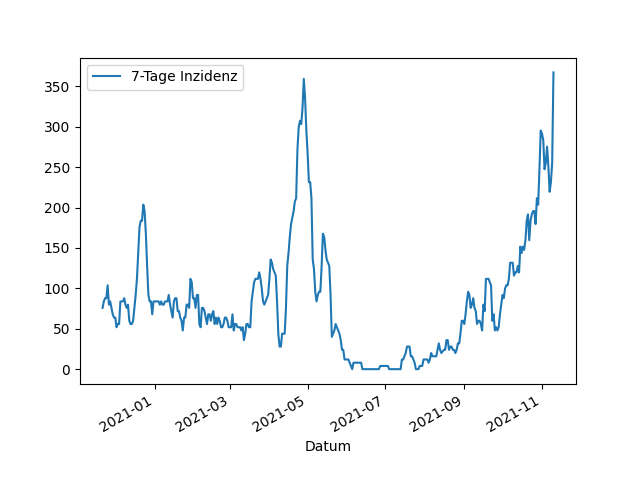
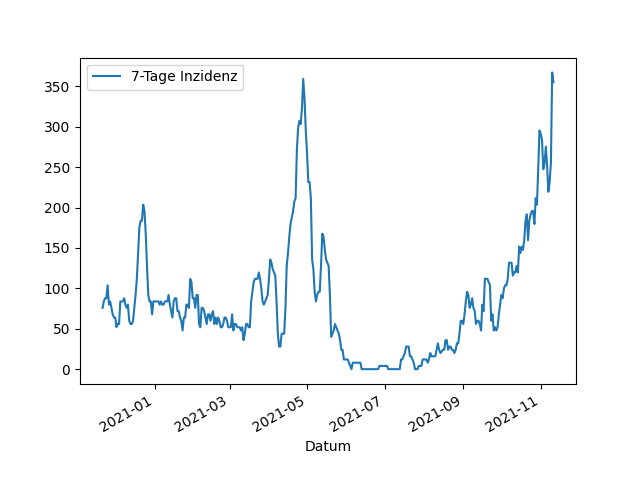
Update images

diff --git a/_includes/aktuelle_inzidenz.md b/_includes/aktuelle_inzidenz.md
@@ -1,1 +1,1 @@
-367,2
+355,3
